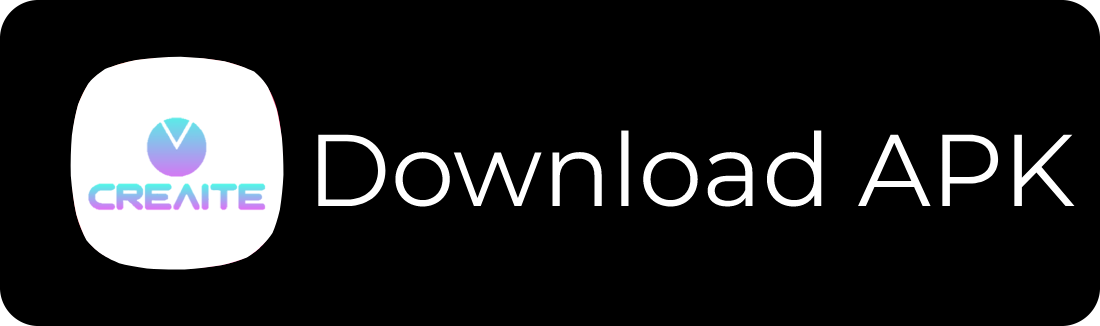
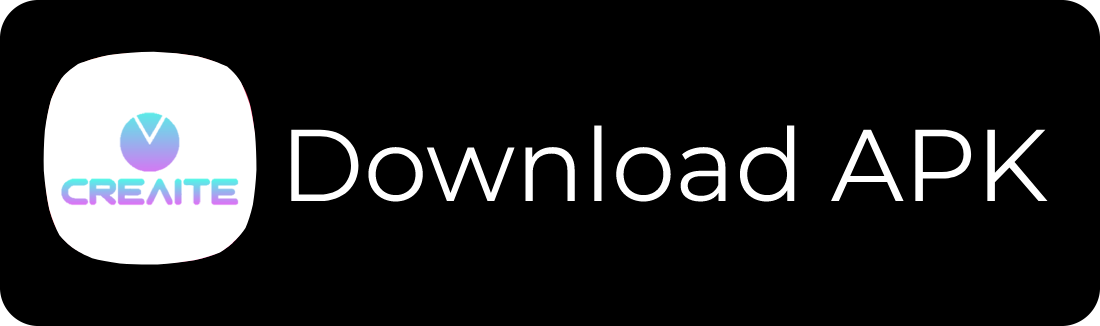
feat: 다운로드 링크 추가

Changed region(s): [[0.0309, 0.1534, 0.9891, 0.8282]]

diff --git a/src/App.js b/src/App.js
@@ -20,13 +20,20 @@ function App() {
       <br />
       <br />
       <div className="boxStyle">
-        <a href="">
+        <a href="https://onesto.re/0000769538">
           <img src={oneDown} className="imageStyle" />
         </a>
         <div className="box"></div>
-        <a href="">
+        {/* <a href="">
           <img src={apkDown} className="imageStyle" />
-        </a>
+        </a> */}
+        <img
+          src={apkDown}
+          onClick={() => {
+            alert("준비중입니다!");
+          }}
+          className="imageReadyStyle"
+        />
       </div>
       <br />
       <br />

diff --git a/src/App.css b/src/App.css
@@ -7,6 +7,11 @@
   /* margin: 10px; */
 }
 
+.imageReadyStyle {
+  height: 80px;
+  cursor: pointer;
+}
+
 .headerStyle {
   align-items: flex-start;
 }
